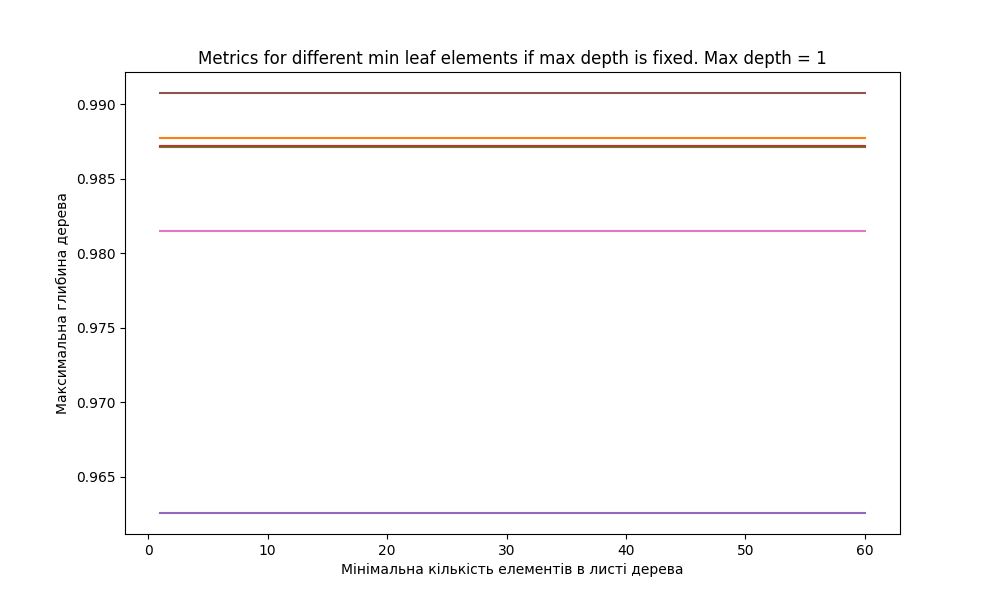
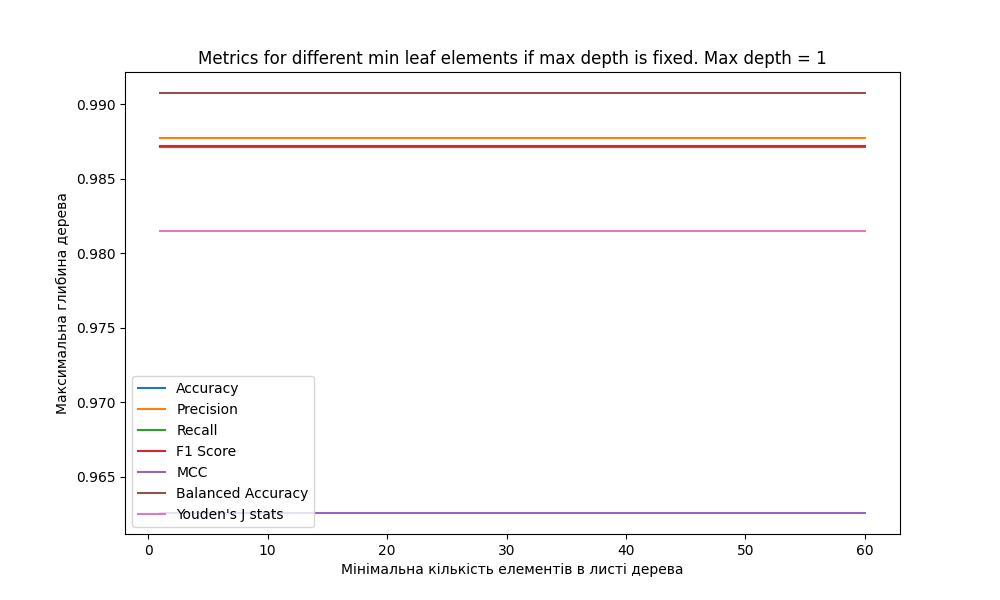
final

Changed region(s): [[0.155, 0.63, 0.31, 0.87]]

diff --git a/лаб3/ML_lab3_Lazebnyi_KM_12.py b/лаб3/ML_lab3_Lazebnyi_KM_12.py
@@ -89,11 +89,27 @@ def get_results(clf, criterion_name):
     axes[1].set_xlabel('Predicted labels')
     axes[1].set_ylabel('True labels')
 
-    misclassified_examples = X_test[y_test != y_pred_test]
-
     plt.tight_layout()
+
+    # plt.savefig(f'conf_matrix_train_test_{criterion_name}.png')
+
     plt.show()
 
+
+def get_feature_importances(clf, criterion_name):
+    feature_importances = clf.feature_importances_
+
+    feature_names = X.columns
+
+    indices = np.argsort(feature_importances)
+
+    plt.figure(figsize=(10, 6))
+    plt.title(f"Feature Importances with criterion: {criterion_name}")
+    plt.bar(range(X.shape[1]), feature_importances[indices], color="b", align="center")
+    plt.xticks(range(X.shape[1]), [feature_names[i] for i in indices], rotation=45)
+    plt.xlabel("Feature")
+    plt.ylabel("Importance")
+    plt.show()
 
 # 1st. task
 df = pd.read_csv('dataset_2.txt', header=None)
@@ -174,9 +190,9 @@ for i, max_depth in enumerate(max_depth_values):
         clf = DecisionTreeClassifier(max_depth=max_depth, min_samples_leaf=min_samples_leaf)
         clf.fit(X_train, y_train)
 
-        #visualize
-        graph = visualize_decision_tree(clf, to_return=True)
-        graph.render(f"metrics_for_different_tree_params/vis_trees/depth_{max_depth}/decision_tree_depth_{max_depth}_{min_samples_leaf}", format="png", view=False)
+        # visualize
+        # graph = visualize_decision_tree(clf, to_return=True)
+        # graph.render(f"metrics_for_different_tree_params/vis_trees/depth_{max_depth}/decision_tree_depth_{max_depth}_{min_samples_leaf}", format="png", view=False)
 
         # Predict target values
         y_pred = clf.predict(X_test)
@@ -227,18 +243,24 @@ for max_depth in max_depth_values:
     plt.plot(min_samples_leaf_values, metrics_for_min_samples_leaf[:, 5], label='Balanced Accuracy')
     plt.plot(min_samples_leaf_values, metrics_for_min_samples_leaf[:, 6], label="Youden's J stats")
 
-    plt.savefig(f'metrics_for_different_tree_params/graphs/max_depth_{max_depth}.png')
-
     plt.legend()
+
+    # plt.savefig(f'metrics_for_different_tree_params/graphs/max_depth_{max_depth}.png')
+
     plt.show()
 
-    for i, matrix in enumerate(lst_of_conf_matrix):
-        plt.figure(figsize=(6, 6))
-        plt.title(f"Confusion matrix for max_depth = {max_depth}, min_leaf_samples = {i+1}")
+    # for i, matrix in enumerate(lst_of_conf_matrix):
+    #     plt.figure(figsize=(6, 6))
+    #     plt.title(f"Confusion matrix for max_depth = {max_depth}, min_leaf_samples = {i+1}")
+    #
+    #     sns.heatmap(np.array(matrix), annot=True, cmap='Blues', fmt='g')
+    #     plt.xlabel('Predicted labels')
+    #     plt.ylabel('True labels')
+    #
+    #     plt.savefig(f'metrics_for_different_tree_params/conf_matrices/max_depth_{max_depth}_{i+1}.png')
+    #     plt.close()
 
-        sns.heatmap(np.array(matrix), annot=True, cmap='Blues', fmt='g')
-        plt.xlabel('Predicted labels')
-        plt.ylabel('True labels')
+# 9th. task
 
-        plt.savefig(f'metrics_for_different_tree_params/conf_matrices/max_depth_{max_depth}_{i+1}.png')
-        plt.close()
+get_feature_importances(clf_gini, "gini")
+get_feature_importances(clf_entropy, "entropy")
